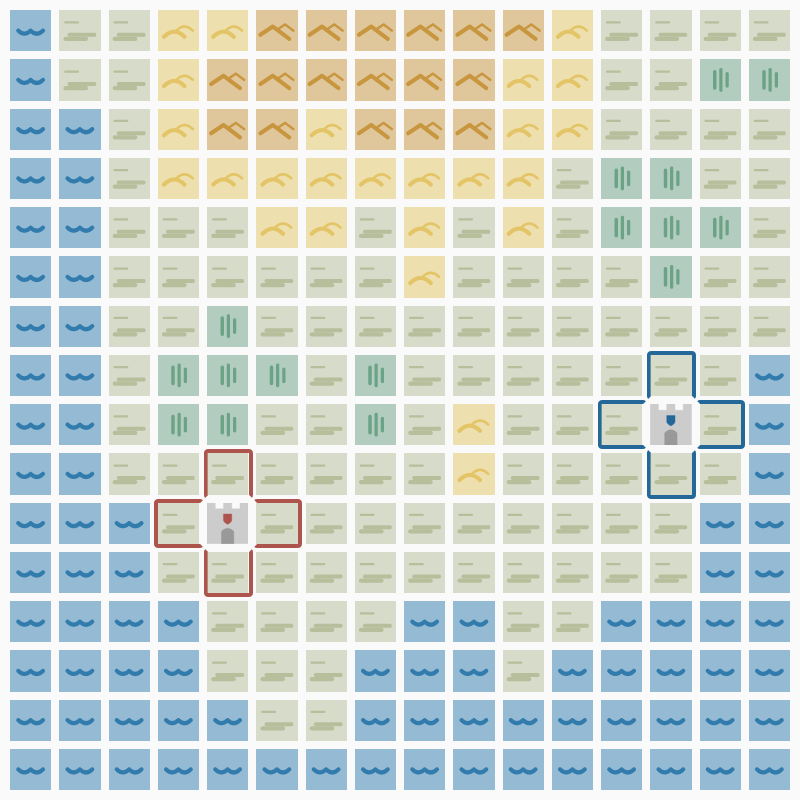
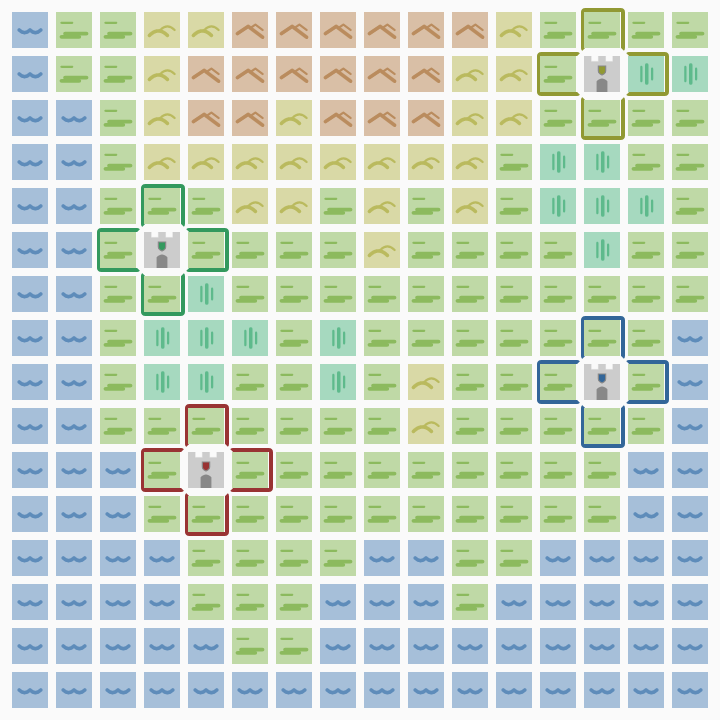
images with captions and hints in help

diff --git a/src/app/help/help.component.html b/src/app/help/help.component.html
@@ -2,72 +2,95 @@
   <section class="help">
     <p>SEDL! is a turn based strategic game. You're a Lord and you rule over a settlement and some land in a virgin
       world. Other Lords are trying to stand out in this world. Your goal is to rule them all and their settlements.</p>
-    <p align="center">
-      <img style="max-width: 100%" src="assets/SEDL.png" alt="SEDL"/>
-    </p>
+    <figure>
+      <img class="help__image" src="assets/SEDL.png" alt="SEDL"/>
+    </figure>
 
     <p>Your people live in your settlements. Settlements have a sustenance cost — your people need to eat. To sustain
       your settlements, you need to collect goods from your land.</p>
 
     <p>Your explorers have charted the world in regions. They have found five types of land: plain, hill, mountain,
       forest, and water. Each one has its advantages and weaknesses. See the table at the bottom to see the worth and
-      the
-      costs of all them.</p>
+      the costs of all them.</p>
 
     <p>You start ruling over a settlement and its surrounding regions. This is your initial domain — a domain is a set
-      of
-      regions controlled by a settlement. Your people collect goods from your domain the the beginning of your turn.
-      They
-      convert them into coins for your treasury; then you pay your sustenance costs.</p>
+      of regions controlled by a settlement. Your people collect goods from your domain the the beginning of your turn.
+      They convert them into coins for your treasury; then you pay your sustenance costs.</p>
+
+    <figure>
+      <img class="help__image" src="assets/before.png" alt="Starting domain"/>
+      <figcaption>A domain is a set of regions controlled by a settlement.</figcaption>
+    </figure>
 
     <p>Your domain is wide enough to sustain your settlement, but you won't go far with it. You need to expand your
-      domain
-      if you want to rule over the world. Use coins from your treasury to tame more regions.</p>
+      domain if you want to rule over the world. Use coins from your treasury to tame more regions.</p>
 
-    <p>You tame a land by colonization or by conquest. Colonize regions next to your domain when they don't belong to a
-      Lord. Conquer regions next to your domain when they do belong to another Lord. Each type of land has a
-      colonization
-      cost; conquering that region will cost you double. A tamed region enters your domain and is impregnable until your
-      next turn. Your people will collect goods from the new region at the beginning of your next turn.</p>
+    <p class="help__hint" [seCurrentLordColor]="game.lord$ | async">Pinch the map to zoom in and out. Pan it to move
+      along your domains.</p>
+
+    <p>You tame a land by colonization or conquest. Colonize regions next to your domain when they don't belong to a
+      Lord.</p>
+
+    <figure>
+      <img class="help__image" src="assets/colonize.png" alt="Domain expansion by colonization"/>
+      <figcaption>Colonizing a region.</figcaption>
+    </figure>
+
+    <p>Conquer regions next to your domain when they do belong to another Lord.</p>
+
+    <figure>
+      <img class="help__image" src="assets/conquer.png" alt="Domain expansion by conquest"/>
+      <figcaption>Conquering a region.</figcaption>
+    </figure>
+
+    <p> Each type of land has a colonization cost; conquering that region will cost you double. A tamed region enters
+      your domain and is impregnable until your next turn. Your people will collect goods from the new region at the
+      beginning of your next turn.</p>
+
+    <p class="help__hint" [seCurrentLordColor]="game.lord$ | async">Tap a region next to your domain to conquer or
+      colonize it.</p>
 
     <p>Remember that you need your people to collect goods from a region. If another Lord cut off some regions from your
       domain, your people won't be able to reach them. You won't collect goods from them as long as they don't belong to
-      a
-      domain. Those regions will recognize you as their Lord though: they won't resign.</p>
+      a domain. Those regions will recognize you as their Lord though: they won't resign.</p>
+
+    <figure>
+      <img class="help__image" src="assets/isolated.png" alt="A domain and some isolated regions"/>
+      <figcaption>People from the settlement can't reach the regions on the left.</figcaption>
+    </figure>
 
     <p>You can't stop other Lords from conquering your regions in their turn, but you can make the task harder. Fortify
-      a
-      region to double the conquest cost. Remember that you can't fortify water and settlements!
+      a region to double its conquest cost. Remember that you can't fortify water and settlements!
       Fortifications are great, but they have a cost — the same as the colonization cost. You must sustain this cost in
-      every turn. When you don't need a fortification anymore, you can withdraw your forces from it. Withdrawing won't
-      cost anything. Your forces will withdraw from a fortified region if you lose control over it.</p>
+      every turn. When you don't need a fortification anymore, you can withdraw your forces from the region.
+      Withdrawing won't cost anything. Your forces will withdraw from a fortified region if you lose control over
+      it.</p>
+
+    <p class="help__hint" [seCurrentLordColor]="game.lord$ | async">Tap a region in your domain to fortify it. Tap it
+      again to withdraw your forces from there.</p>
 
     <p>If you can't pay for your fortifications at the beginning of your turn, all your forces will withdraw. Then you
-      can
-      fortify your regions again, based on your resources. If you still don't have enough money, then you can't sustain
-      your
-      settlements. Your people will get angry and won't work for you until the next turn.</p>
+      can fortify your regions again, based on your resources. If you still don't have enough money, then you can't
+      sustain your settlements. Your people will get angry and won't work for you until the next turn.</p>
 
     <p>Sometimes you need more money to reach your goals. You can ask your people to rush — they will collect more goods
-      in
-      that turn, and add 20% of your worth to your treasury. But this is a perilous move — you will collect your money,
-      but
-      you will wear out your people. Your domain will need some rest, too. You will collect half your worth in the next
-      turn, giving time to your domain and your people to rest.</p>
+      in that turn, and add 20% of your worth to your treasury. But this is a perilous move — you will collect your
+      money, but you will wear out your people. Your domain will need some rest, too. You will collect half your worth
+      in the next turn, giving time to your domain and your people to rest.</p>
 
     <p>A settlement and its people can sustain up to 100 regions — what can you do to expand your domain further? Build
-      another settlement! This also means that you can still collect goods if another Lord cuts your domain. You can
-      build
-      up to two more settlements, but you can control more of them by conquest.</p>
+      another settlement! If you have more settlements in your domain, you won't fear other Lords cutting your domain in
+      half. You can build up to two more settlements, but you can control more conquering them.</p>
+
+    <p class="help__hint" [seCurrentLordColor]="game.lord$ | async">Press and hold a region in your domain to build a
+      settlement.</p>
 
     <p>But pay attention! Even though a new settlement is impregnable until your next turn, they are very weak. If a
-      Lord
-      conquers a region next to a settlement, they can take the settlement too for free. And if the settlement is the
-      only
-      one in that domain, the Lord will win the whole domain too! To avoid this pitfall, try to keep more than one
-      settlement in every domain. If a Lord conquers a settlement, the domain is still yours, as it's reachable from the
-      other settlement.
-      When you lose control over all your settlements, you can't do anything and you lose.</p>
+      Lord conquers a region next to a settlement, they can take the settlement too for free. And if the settlement is
+      the only one in that domain, the Lord will win the whole domain too! To avoid this pitfall, try to keep more than
+      one settlement in every domain. If a Lord conquers one of the settlements, the domain is still yours, as it's
+      reachable from other settlements. When you lose control over all your settlements, you can't do anything and you
+      lose.</p>
 
     <p>Time to rule the world, good luck and have fun!</p>
 

diff --git a/src/style/_help.scss b/src/style/_help.scss
@@ -22,6 +22,25 @@
   }
 }
 
+.help__image {
+  max-width: 100%;
+}
+
+.help__hint {
+  width: 100%;
+
+  padding: $spacing-l;
+
+  --lightness-delta-highlight: 50%;
+
+  @include lord-color();
+  @include lord-color('highlight');
+
+  background-color: var(--lord-color-highlight);
+  border-left: solid $spacing-s var(--lord-color);
+  border-radius: $spacing-s;
+}
+
 @media only screen and (max-width: $breakpoint) {
 
   .help__table {

diff --git a/src/app/help/help.component.ts b/src/app/help/help.component.ts
@@ -1,4 +1,5 @@
 import {ChangeDetectionStrategy, Component} from '@angular/core';
+import {GameService} from '../game.service';
 
 @Component({
   selector: 'se-help',
@@ -6,4 +7,7 @@ import {ChangeDetectionStrategy, Component} from '@angular/core';
   changeDetection: ChangeDetectionStrategy.OnPush
 })
 export class HelpComponent {
+
+  constructor(public game: GameService) {
+  }
 }

diff --git a/src/style/_typography.scss b/src/style/_typography.scss
@@ -28,7 +28,12 @@ body {
   line-height: 1.45;
 }
 
-p {
+figure {
+  @include flex-align-center();
+  flex-direction: column;
+}
+
+p, figure {
   margin-bottom: 1.25em;
 }
 
@@ -58,7 +63,7 @@ h5 {
   font-size: 1.2em;
 }
 
-small, .text_small {
+small, .text_small, figcaption {
   font-size: 0.833em;
 }
 

diff --git a/src/styles.scss b/src/styles.scss
@@ -1,7 +1,7 @@
 @import "style/reset";
 @import "style/decisions";
-@import "style/typography";
 @import "style/utilities";
+@import "style/typography";
 @import "style/buttons";
 @import "style/board";
 @import "style/controls";
